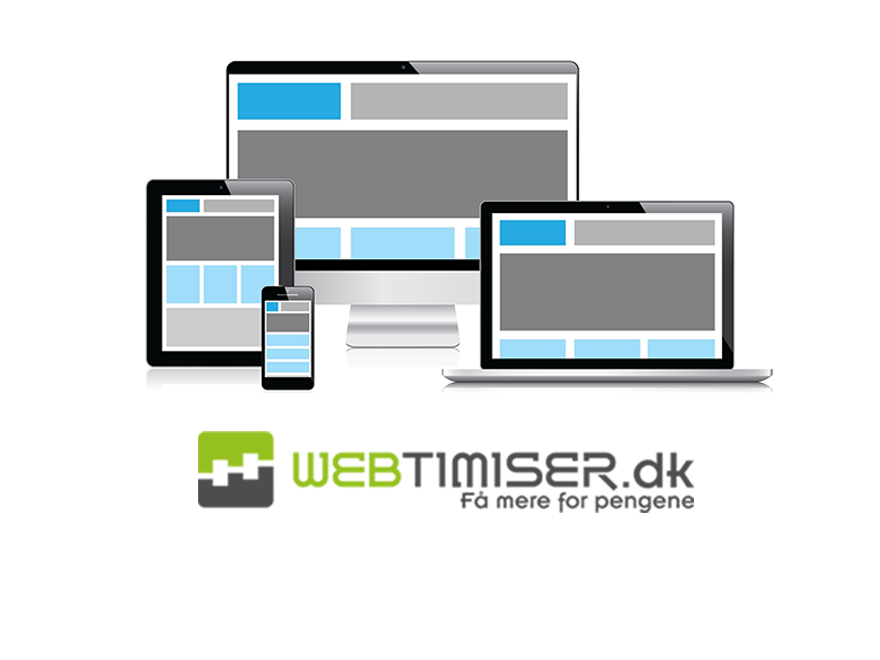
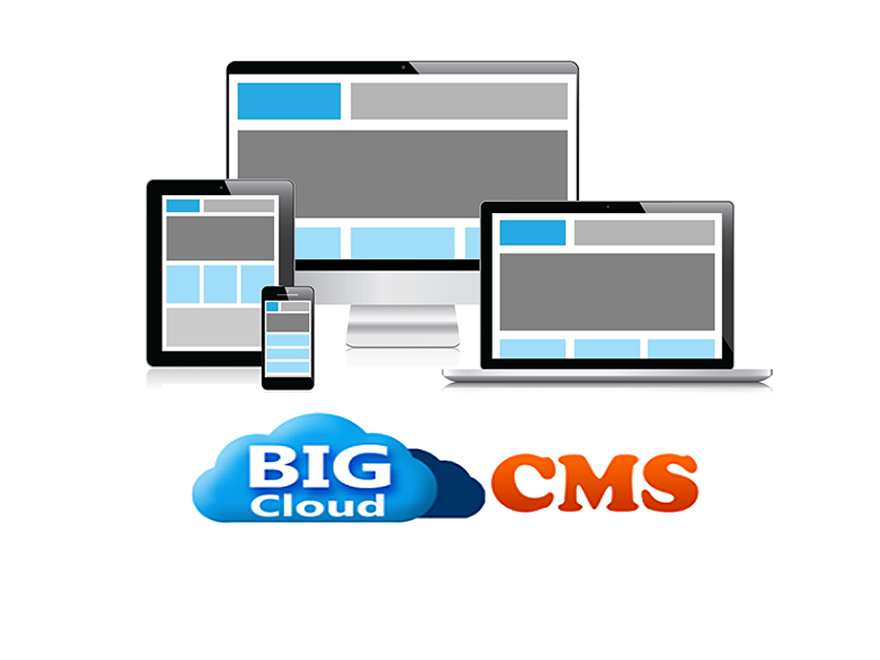
updated

Changed region(s): [[0.2148, 0.6061, 0.7977, 0.8182]]

diff --git a/psd2wpbuilder/style.css b/psd2wpbuilder/style.css
@@ -1,14 +1,14 @@
 /*
- Theme Name:        WPCloudCMS
- Theme URI:         http://bigcloudcms.com/wpcloudcms/
- Version:           3.5.0.2
+ Theme Name:        Psd2WP Builder
+ Theme URI:         http://bigcloudcms.com/psd2wpbuilder/
+ Version:           3.5.0.8
  Description:
- Author:            BigCloudCMS
- Author URI:        http://www.bigcloudcms.com/
+ Author:            BigCloudCMS Team
+ Author URI:        http://bigcloudcms.com/
  Template:          bigcloudcms
- Template Version:  3.5.0.2
- Tags:              light, dark, two-columns, responsive-layout
-GitHub Theme URI:   https://github.com/bigcloudcms/wpcloudcms
+ Template Version:  3.5.0.3
+ Tags:              Psd to WordPress Theme Builder!
+GitHub Theme URI:   https://github.com/bigcloudcms/psd2wpbuilder
 GitHub Branch:      master
 */
 
@@ -44,25 +44,8 @@ li:after, li:before {
 }
 
 
-li:last-child:after {
-    background-color: rgba(0, 0, 0, 0) !important;
-}
-
 /* columns of same height styles */
 
-.row-height {
-  display: table;
-  table-layout: fixed;
-  height: 100%;
-  width: 100%;
-    margin-left: auto;
-    margin-right: auto;
-}
-.col-height {
-  display: table-cell;
-  float: none;
-  height: 100%;
-}
 .col-top {
   vertical-align: top;
 }
@@ -153,7 +136,6 @@ img.aligncenter {
     margin-right: auto;
 }
 
-li:after {height: 30px;position: absolute;top: 25%;right: 0px;}
 .navclass {margin-top: -1px;}
 #nav-secnd ul li:nth-child(1):after, #nav-third ul li:nth-child(1):after {width: 0px;}
 #nav-main ul.sf-menu, .nav-main ul.sf-menu {float: left;}

diff --git a/style.css b/style.css
@@ -3,8 +3,8 @@
  Theme URI:         http://bigcloudcms.com/psd2wpbuilder/
  Version:           3.5.0.8
  Description:
- Author:            Webtimiser Team
- Author URI:        http://www.webtimiser.dk/
+ Author:            BigCloudCMS Team
+ Author URI:        http://bigcloudcms.com/
  Template:          bigcloudcms
  Template Version:  3.5.0.3
  Tags:              Psd to WordPress Theme Builder!
